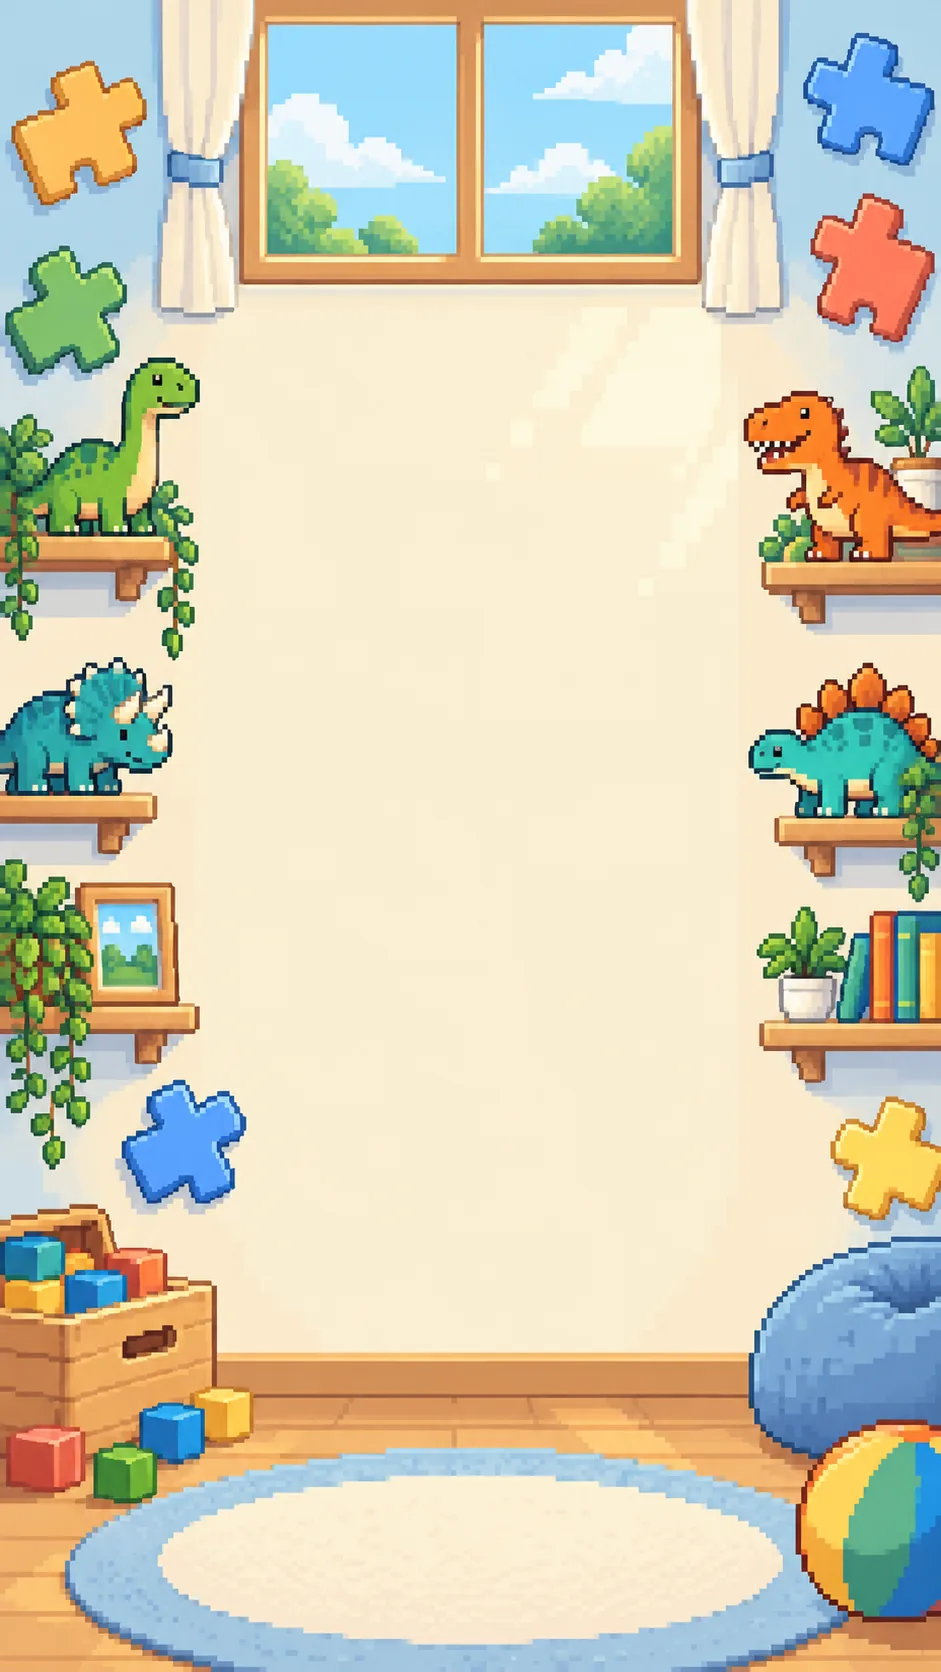
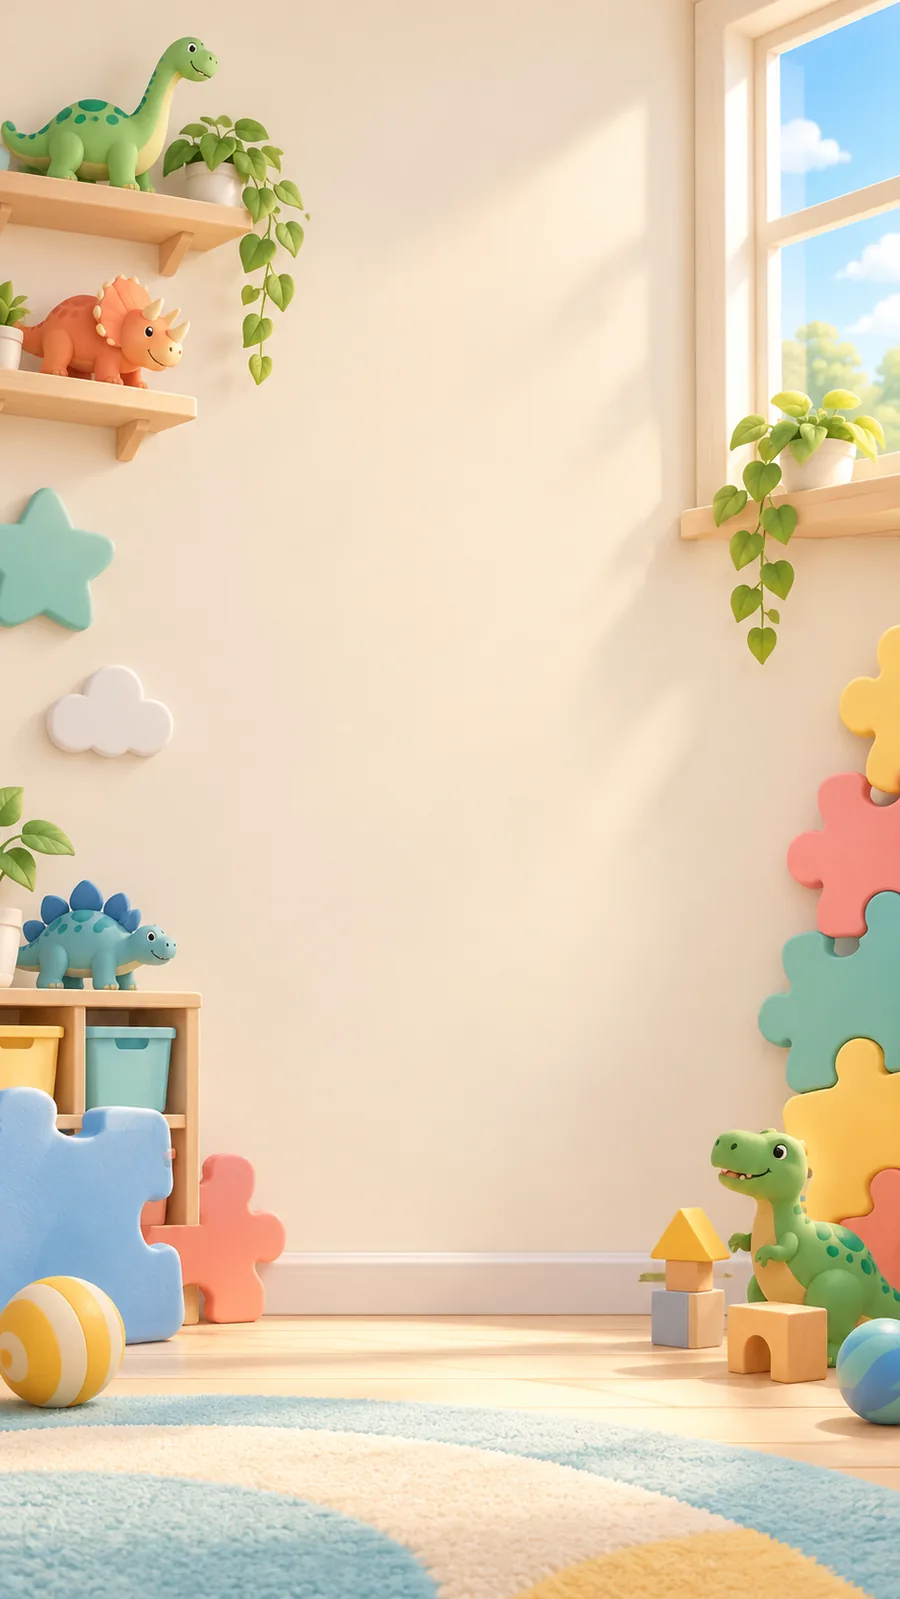
3D-style menu backgrounds for Rana Glotona and puzzle

diff --git a/site/sw.js b/site/sw.js
@@ -1,5 +1,5 @@
 // Caches every game on the device so the whole app works 100% offline after the first visit
-const CACHE = 'leon-games-20261021000627';
+const CACHE = 'leon-games-20261021000945';
 const FILES = ['./', 'dino-hole/', 'dino-hole/index.html', 'dino-puzzle/', 'dino-puzzle/index.html', 'dino-race/', 'dino-race/index.html', 'icons/apple-touch-icon.png', 'icons/dino-hole.png', 'icons/dino-puzzle.png', 'icons/dino-race.png', 'icons/icon-192.png', 'icons/icon-512.png', 'img/hole/lvl-ciudad.webp', 'img/hole/lvl-desierto.webp', 'img/hole/lvl-nieve.webp', 'img/hole/lvl-playa.webp', 'img/hole/lvl-selva.webp', 'img/hole/lvl-volcan.webp', 'img/hole/lvl2-ciudad.webp', 'img/hole/lvl2-desierto.webp', 'img/hole/lvl2-nieve.webp', 'img/hole/lvl2-playa.webp', 'img/hole/lvl2-selva.webp', 'img/hole/lvl2-volcan.webp', 'img/hub3d-tall.webp', 'img/hub3d-wide.webp', 'img/menus/bg-hole-tall.webp', 'img/menus/bg-hole-wide.webp', 'img/menus/bg-puzzle-tall.webp', 'img/menus/bg-puzzle-wide.webp', 'img/puzzle/01-trex.webp', 'img/puzzle/02-trice.webp', 'img/puzzle/03-brachio.webp', 'img/puzzle/04-stego.webp', 'img/puzzle/05-ptero.webp', 'img/puzzle/06-egg.webp', 'img/puzzle/07-leon-trex.webp', 'img/puzzle/08-dragon.webp', 'img/puzzle/09-ankylo.webp', 'img/puzzle/10-beach.webp', 'img/puzzle/11-mosa.webp', 'img/puzzle/12-train.webp', 'img/puzzle/13-lion.webp', 'img/puzzle/14-elephant.webp', 'img/puzzle/15-giraffe.webp', 'img/puzzle/16-monkey.webp', 'img/puzzle/17-panda.webp', 'img/puzzle/18-penguins.webp', 'img/puzzle/19-puppy.webp', 'img/puzzle/20-kitten.webp', 'img/puzzle/21-farm.webp', 'img/puzzle/22-octopus.webp', 'img/puzzle/23-turtle.webp', 'img/puzzle/24-owl.webp', 'img/puzzle/25-firetruck.webp', 'img/puzzle/26-rocket.webp', 'img/puzzle/27-airplane.webp', 'img/puzzle/28-tractor.webp', 'img/puzzle/29-bunny.webp', 'img/puzzle/30-whale.webp', 'img/splash-tall.webp', 'img/splash-wide.webp', 'index.html', 'manifest.webmanifest', 'models/CREDITS.txt', 'models/apato.glb', 'models/dragon.glb', 'models/frog.glb', 'models/k/ambulance.glb', 'models/k/apple.glb', 'models/k/banana.glb', 'models/k/barrel.glb', 'models/k/bench.glb', 'models/k/boat-row-small.glb', 'models/k/bottle-large.glb', 'models/k/bridge_wood.glb', 'models/k/building-a.glb', 'models/k/building-c.glb', 'models/k/building-skyscraper-a.glb', 'models/k/building-skyscraper-c.glb', 'models/k/building-type-a.glb', 'models/k/building-type-c.glb', 'models/k/building-type-f.glb', 'models/k/building-type-k.glb', 'models/k/burger.glb', 'models/k/cactus_short.glb', 'models/k/cactus_tall.glb', 'models/k/cake-birthday.glb', 'models/k/campfire_logs.glb', 'models/k/candy-cane-red.glb', 'models/k/cannon.glb', 'models/k/canoe.glb', 'models/k/carrot.glb', 'models/k/cheese.glb', 'models/k/cherries.glb', 'models/k/chest.glb', 'models/k/cliff_block_rock.glb', 'models/k/cliff_block_stone.glb', 'models/k/cone.glb', 'models/k/construction-barrier.glb', 'models/k/construction-cone.glb', 'models/k/crate.glb', 'models/k/crop_carrot.glb', 'models/k/crop_melon.glb', 'models/k/crop_pumpkin.glb', 'models/k/cupcake.glb', 'models/k/delivery.glb', 'models/k/donut-sprinkles.glb', 'models/k/dumpster.glb', 'models/k/fence-1x3.glb', 'models/k/fence_planks.glb', 'models/k/fence_simple.glb', 'models/k/firetruck.glb', 'models/k/flag-pirate.glb', 'models/k/flower_purpleA.glb', 'models/k/flower_redA.glb', 'models/k/flower_redB.glb', 'models/k/flower_yellowA.glb', 'models/k/garbage-truck.glb', 'models/k/gingerbread-man.glb', 'models/k/grass.glb', 'models/k/grass_large.glb', 'models/k/grass_leafs.glb', 'models/k/grass_leafsLarge.glb', 'models/k/hatchback-sports.glb', 'models/k/ice-cream.glb', 'models/k/kart-oobi.glb', 'models/k/lantern-hanging.glb', 'models/k/light-square.glb', 'models/k/lily_large.glb', 'models/k/log.glb', 'models/k/log_large.glb', 'models/k/log_stack.glb', 'models/k/lollypop.glb', 'models/k/low-detail-building-a.glb', 'models/k/low-detail-building-c.glb', 'models/k/low-detail-building-e.glb', 'models/k/low-detail-building-wide-a.glb', 'models/k/mushroom_red.glb', 'models/k/mushroom_redGroup.glb', 'models/k/mushroom_tan.glb', 'models/k/mushroom_tanGroup.glb', 'models/k/palm-bend.glb', 'models/k/palm-straight.glb', 'models/k/pizza.glb', 'models/k/plant_bush.glb', 'models/k/plant_bushDetailed.glb', 'models/k/plant_bushLarge.glb', 'models/k/plant_bushSmall.glb', 'models/k/planter.glb', 'models/k/police.glb', 'models/k/pot_large.glb', 'models/k/present-a-cube.glb', 'models/k/present-a-round.glb', 'models/k/present-b-round.glb', 'models/k/pumpkin.glb', 'models/k/reindeer.glb', 'models/k/road-sign-stop.glb', 'models/k/rock_largeA.glb', 'models/k/rock_largeB.glb', 'models/k/rock_largeC.glb', 'models/k/rock_smallA.glb', 'models/k/rock_smallB.glb', 'models/k/rock_smallC.glb', 'models/k/rock_tallA.glb', 'models/k/rock_tallB.glb', 'models/k/rocks-large.glb', 'models/k/rocks-medium.glb', 'models/k/rocks-sand-a.glb', 'models/k/rocks-sand-b.glb', 'models/k/sandwich.glb', 'models/k/sedan.glb', 'models/k/ship-pirate-large.glb', 'models/k/ship-pirate-medium.glb', 'models/k/ship-small.glb', 'models/k/ship-wreck.glb', 'models/k/sled.glb', 'models/k/snow-pile.glb', 'models/k/snowman-hat.glb', 'models/k/snowman.glb', 'models/k/statue_head.glb', 'models/k/statue_obelisk.glb', 'models/k/stone_largeA.glb', 'models/k/stone_largeB.glb', 'models/k/stone_smallA.glb', 'models/k/stone_tallA.glb', 'models/k/strawberry.glb', 'models/k/stump_old.glb', 'models/k/stump_round.glb', 'models/k/suv.glb', 'models/k/taxi.glb', 'models/k/tent_detailedClosed.glb', 'models/k/tent_smallClosed.glb', 'models/k/tower-complete-small.glb', 'models/k/traffic-light.glb', 'models/k/train-locomotive.glb', 'models/k/train-wagon.glb', 'models/k/tree-decorated-snow.glb', 'models/k/tree-large.glb', 'models/k/tree-small.glb', 'models/k/tree-snow-b.glb', 'models/k/tree-snow-c.glb', 'models/k/tree_cone.glb', 'models/k/tree_default.glb', 'models/k/tree_default_fall.glb', 'models/k/tree_detailed.glb', 'models/k/tree_fat.glb', 'models/k/tree_fat_fall.glb', 'models/k/tree_oak.glb', 'models/k/tree_oak_fall.glb', 'models/k/tree_palm.glb', 'models/k/tree_palmBend.glb', 'models/k/tree_palmDetailedTall.glb', 'models/k/tree_palmShort.glb', 'models/k/tree_palmTall.glb', 'models/k/tree_pineGroundA.glb', 'models/k/tree_pineRoundA.glb', 'models/k/tree_pineRoundC.glb', 'models/k/tree_pineTallA.glb', 'models/k/tree_simple.glb', 'models/k/tree_tall.glb', 'models/k/van.glb', 'models/k/watermelon.glb', 'models/para.glb', 'models/raptor.glb', 'models/shark.glb', 'models/sheep.glb', 'models/stego.glb', 'models/trex.glb', 'models/trice.glb', 'vendor/GLTFLoader.js', 'vendor/SkeletonUtils.js', 'vendor/fonts.css', 'vendor/fonts/XRXV3I6Li01BKofINeaBTMnFcQ.woff2', 'vendor/fonts/XRXV3I6Li01BKofIO-aBTMnFcQIG.woff2', 'vendor/fonts/i7dPIFZ9Zz-WBtRtedDbYE98RXi4EwSsbg.woff2', 'vendor/fonts/i7dPIFZ9Zz-WBtRtedDbYEF8RXi4EwQ.woff2', 'vendor/three.min.js'];
 self.addEventListener('install', e => {
   // cache: 'reload' skips the browser's HTTP cache so a new version never stores old copies of images or models

diff --git a/site/dino-puzzle/index.html b/site/dino-puzzle/index.html
@@ -8,7 +8,7 @@
 <meta name="apple-mobile-web-app-status-bar-style" content="black-translucent">
 <meta name="apple-mobile-web-app-title" content="Juegos de León">
 <meta name="theme-color" content="#5ac8ff">
-<script>window.LEON_VERSION='20261021000627';</script>
+<script>window.LEON_VERSION='20261021000945';</script>
 <link rel="manifest" href="../manifest.webmanifest">
 <link rel="apple-touch-icon" href="../icons/apple-touch-icon.png">
 <link rel="icon" type="image/png" href="../icons/icon-192.png">
@@ -31,7 +31,7 @@
 html,body{height:100%;margin:0;overflow:hidden;background:var(--sky);color:var(--ink);font-family:var(--pix);-webkit-user-select:none;user-select:none;-webkit-tap-highlight-color:transparent;-webkit-touch-callout:none;overscroll-behavior:none;-webkit-text-size-adjust:100%}
 button{font-family:var(--pix);touch-action:manipulation;-webkit-touch-callout:none;cursor:pointer;color:var(--ink)}
 img{-webkit-user-drag:none}
-.bg{position:fixed;inset:0;background:url(../img/menus/bg-puzzle-wide.webp) 50% 50%/cover no-repeat #fff4dc;image-rendering:pixelated;transition:opacity .3s}
+.bg{position:fixed;inset:0;background:url(../img/menus/bg-puzzle-wide.webp) 50% 50%/cover no-repeat #fff4dc;transition:opacity .3s}
 @media (orientation:portrait){.bg{background-image:url(../img/menus/bg-puzzle-tall.webp)}}
 .bg::after{content:'';position:absolute;inset:0;background:rgba(255,255,255,.3)}
 /* Al armar: fondo claro y liso para que las piezas resalten */

diff --git a/site/dino-hole/index.html b/site/dino-hole/index.html
@@ -8,7 +8,7 @@
 <meta name="apple-mobile-web-app-status-bar-style" content="black-translucent">
 <meta name="apple-mobile-web-app-title" content="Juegos de León">
 <meta name="theme-color" content="#5ac8ff">
-<script>window.LEON_VERSION='20261021000627';window.LEON_WAIT=true;</script>
+<script>window.LEON_VERSION='20261021000945';window.LEON_WAIT=true;</script>
 <link rel="manifest" href="../manifest.webmanifest">
 <link rel="apple-touch-icon" href="../icons/apple-touch-icon.png">
 <link rel="icon" type="image/png" href="../icons/icon-192.png">
@@ -29,7 +29,7 @@ html,body{height:100%;margin:0;overflow:hidden;background:#7bd63a;color:var(--in
 button{font-family:var(--pix);touch-action:manipulation;-webkit-touch-callout:none;cursor:pointer;color:var(--ink)}
 #app{position:fixed;inset:0;touch-action:none}
 #app canvas{display:block;width:100%;height:100%;touch-action:none}
-.bg{position:fixed;inset:0;background:url(../img/menus/bg-hole-wide.webp) 50% 50%/cover no-repeat #bfeee8;image-rendering:pixelated}
+.bg{position:fixed;inset:0;background:url(../img/menus/bg-hole-wide.webp) 50% 50%/cover no-repeat #bfeee8}
 @media (orientation:portrait){.bg{background-image:url(../img/menus/bg-hole-tall.webp)}}
 .bg::after{content:'';position:absolute;inset:0;background:rgba(255,255,255,.32)}
 

diff --git a/games/dino-puzzle.html b/games/dino-puzzle.html
@@ -18,7 +18,7 @@
 html,body{height:100%;margin:0;overflow:hidden;background:var(--sky);color:var(--ink);font-family:var(--pix);-webkit-user-select:none;user-select:none;-webkit-tap-highlight-color:transparent;-webkit-touch-callout:none;overscroll-behavior:none;-webkit-text-size-adjust:100%}
 button{font-family:var(--pix);touch-action:manipulation;-webkit-touch-callout:none;cursor:pointer;color:var(--ink)}
 img{-webkit-user-drag:none}
-.bg{position:fixed;inset:0;background:url(__UP__img/menus/bg-puzzle-wide.webp) 50% 50%/cover no-repeat #fff4dc;image-rendering:pixelated;transition:opacity .3s}
+.bg{position:fixed;inset:0;background:url(__UP__img/menus/bg-puzzle-wide.webp) 50% 50%/cover no-repeat #fff4dc;transition:opacity .3s}
 @media (orientation:portrait){.bg{background-image:url(__UP__img/menus/bg-puzzle-tall.webp)}}
 .bg::after{content:'';position:absolute;inset:0;background:rgba(255,255,255,.3)}
 /* Al armar: fondo claro y liso para que las piezas resalten */

diff --git a/games/dino-hole.html b/games/dino-hole.html
@@ -16,7 +16,7 @@ html,body{height:100%;margin:0;overflow:hidden;background:#7bd63a;color:var(--in
 button{font-family:var(--pix);touch-action:manipulation;-webkit-touch-callout:none;cursor:pointer;color:var(--ink)}
 #app{position:fixed;inset:0;touch-action:none}
 #app canvas{display:block;width:100%;height:100%;touch-action:none}
-.bg{position:fixed;inset:0;background:url(__UP__img/menus/bg-hole-wide.webp) 50% 50%/cover no-repeat #bfeee8;image-rendering:pixelated}
+.bg{position:fixed;inset:0;background:url(__UP__img/menus/bg-hole-wide.webp) 50% 50%/cover no-repeat #bfeee8}
 @media (orientation:portrait){.bg{background-image:url(__UP__img/menus/bg-hole-tall.webp)}}
 .bg::after{content:'';position:absolute;inset:0;background:rgba(255,255,255,.32)}
 

diff --git a/site/dino-race/index.html b/site/dino-race/index.html
@@ -8,7 +8,7 @@
 <meta name="apple-mobile-web-app-status-bar-style" content="black-translucent">
 <meta name="apple-mobile-web-app-title" content="Juegos de León">
 <meta name="theme-color" content="#5ac8ff">
-<script>window.LEON_VERSION='20261021000627';window.LEON_WAIT=true;</script>
+<script>window.LEON_VERSION='20261021000945';window.LEON_WAIT=true;</script>
 <link rel="manifest" href="../manifest.webmanifest">
 <link rel="apple-touch-icon" href="../icons/apple-touch-icon.png">
 <link rel="icon" type="image/png" href="../icons/icon-192.png">

diff --git a/site/index.html b/site/index.html
@@ -8,7 +8,7 @@
 <meta name="apple-mobile-web-app-status-bar-style" content="black-translucent">
 <meta name="apple-mobile-web-app-title" content="Juegos de León">
 <meta name="theme-color" content="#5ac8ff">
-<script>window.LEON_VERSION='20261021000627';</script>
+<script>window.LEON_VERSION='20261021000945';</script>
 <link rel="manifest" href="manifest.webmanifest">
 <link rel="apple-touch-icon" href="icons/apple-touch-icon.png">
 <link rel="icon" type="image/png" href="icons/icon-192.png">
